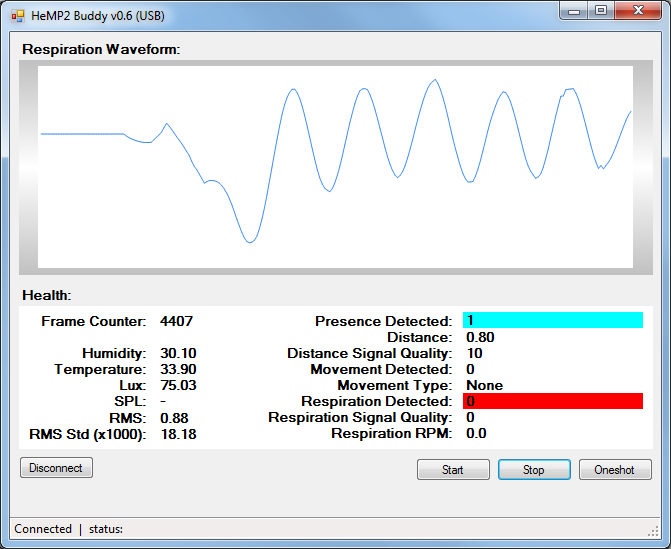
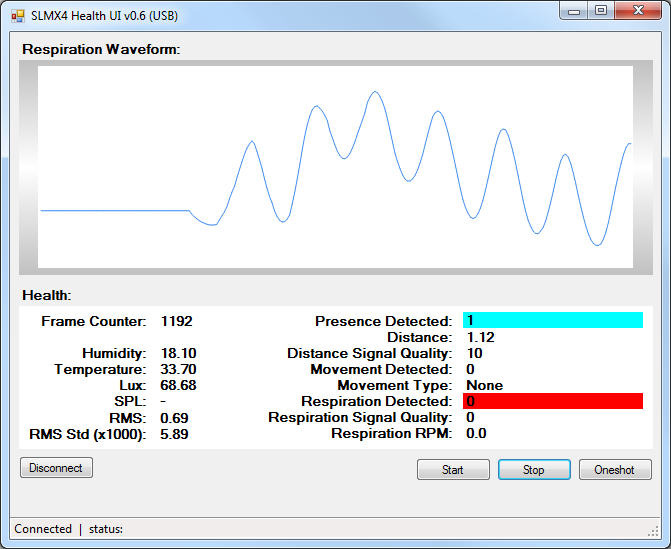
update branding

diff --git a/readme.md b/readme.md
@@ -1,18 +1,18 @@
 # SensorLogic NXP Xethru-X4 Ultra-wideband Radar Modules
-The centerpiece is the 2-pc **He**alth **M**odule **P**CB (HeMP), which is comprised of a baseboard and an elliptical patch antenna module (EPAM). The baseboard foundation is an i.MX RT1060 crossover MCU from NXP with a host of environmental sensors recording temperature, humidity, lux, and noise pressure. The hallmark sensor is the X4 UWB radar that can be used for myriad applications including occupancy, proximity, and respiration, out to 10 meters (RCS depending).
+The centerpiece is the 2-pc SLMX4, which is comprised of a baseboard and an elliptical patch antenna module (EPAM). The baseboard foundation is an i.MX RT1060 crossover MCU from NXP with a host of environmental sensors recording temperature, humidity, lux, and noise pressure. The hallmark sensor is the X4 UWB radar that can be used for myriad applications including occupancy, proximity, and respiration, out to 10 meters (RCS depending).
 
-## HeMP Health Firmware and App
-The _Health Firmware_ runs our proprietary algorithms to identify the presence of, and distance to, a human target. If conditions are right, the human respiration is calculated within +/-1 RPM, out to 5 meters. The current room temperature, humidity, and illuminance levels are also calculated and stored. The data is transmitted via USB or Wi-Fi and is displayed on a basic C# Windows Forms App, the [HeMP Buddy](https://github.com/SensorLogicInc/modules/blob/module-initial-release/docs/health_app.md), ultimately displaying the subject's breathing pattern in real-time.
+## SLMX4 Health Firmware and App
+The _Health Firmware_ runs our proprietary algorithms to identify the presence of, and distance to, a human target. If conditions are right, the human respiration is calculated within +/-1 RPM, out to 5 meters. The current room temperature, humidity, and illuminance levels are also calculated and stored. The data is transmitted via USB or Wi-Fi and is displayed on a basic C# Windows Forms App, the [SLMX4 Health UI](https://github.com/SensorLogicInc/modules/blob/module-initial-release/docs/health_app.md), ultimately displaying the subject's breathing pattern in real-time.
 
-## HeMP MATLAB Firmware and Connector
+## SLMX4 MATLAB Firmware and Connector
 The _MATLAB Firmware and Connector_ allows the user to use an efficient, high-level development environment, like MATLAB, to query the module for raw radar data for custom algorithm and application development. The data comes in two flavors, real RF data, effectively sampled at 23.328 GSps, or In-Phase/Quadrature (IQ) data that has been downconverted and decimated. Complete control of the radar is available by being able to query and set every radar register parameter. For example, changing parameters will affect the frame rate versus processing gain, depending on the application and required SNR.
 
 ## Folder Structure
 ```
 ├── docs
-│   ├── health_app.md                   # Documentation about the HeMP2 Health App
+│   ├── health_app.md                   # Documentation about the SLMX4 Health App
 │   ├── images/                         # Contains the images used in the markdown documents
-│   ├── insecure_fw_update.md           # Documentation about updating the HeMP2 Firmware
+│   ├── insecure_fw_update.md           # Documentation about updating the SLMX4 Firmware
 │   └── readme.md
 ├── matlab
 │   ├── images/                         # Contains the images used in the markdown documents
@@ -21,8 +21,8 @@ The _MATLAB Firmware and Connector_ allows the user to use an efficient, high-le
 │   ├── vcom_test.m                     # MATLAB Script to verify the ability to receive radar data
 │   └── vcom_xep_radar_connector.m      # MATLAB Class to connect the Module to MATLAB
 ├── protocol_buffers
-│   ├── hemp2_usb_vcom.options          # Health Firmware Protocol Buffer Options
-│   ├── hemp2_usb_vcom.proto            # Health Firmware Protocol Buffer .proto file
+│   ├── slmx4_usb_vcom.options          # Health Firmware Protocol Buffer Options
+│   ├── slmx4_usb_vcom.proto            # Health Firmware Protocol Buffer .proto file
 │   └── readme.md                       # Health Firmware Protocol Buffer ReadMe
 ├── usb_driver
 │   └── inf/                            # Contains the USB VCOM device driver for Windows 

diff --git a/docs/health_app.md b/docs/health_app.md
@@ -1,33 +1,33 @@
-# HeMP - Health App User Guide
-The following guide provides information about downloading and running the HeMP2 Health App. To update to the HeMP2 Health Firmware, please see the [Updating the HeMP Firmware Guide](https://github.com/SensorLogicInc/modules/blob/module-initial-release/docs/insecure_fw_update.md).
+# SLM-X4 - Health App User Guide
+The following guide provides information about downloading and running the SLM-X4 Health App. To update to the SLM-X4 Health Firmware, please see the [Updating the SLM-X4 Firmware Guide](https://github.com/SensorLogicInc/modules/blob/module-initial-release/docs/insecure_fw_update.md).
 
-## HeMP Health App - Download and Connect
-### Download the HeMP Health App
-1. Download the [HeMP Health App](https://modules-release.s3-us-west-2.amazonaws.com/health_windows_app/HeMP2_Buddy.zip)
-2. Extract the files from the `HeMP2_Buddy` Zip Folder.
-3. Move the `HeMP2_Buddy` Folder, if desired. This folder location will be know as [SLI-Modules].
-#### HeMP  Buddy Files
-    └── [SLI-Modules]\Hemp2_Buddy
-        ├── HeMP2_Buddy.exe
+## SLM-X4 Health App - Download and Connect
+### Download the SLM-X4 Health App
+1. Download the [SLM-X4 Health App](https://modules-release.s3-us-west-2.amazonaws.com/health_windows_app/SLM-X4_Buddy.zip)
+2. Extract the files from the `SLM-X4_Buddy` Zip Folder.
+3. Move the `SLM-X4_Buddy` Folder, if desired. This folder location will be know as [SLI-Modules].
+#### SLM-X4  Buddy Files
+    └── [SLI-Modules]\slmx4_health_ui_usb
+        ├── slmx4_health_ui_usb.exe
         ├── LibUsbDotNet.dll
         └── protobuf-net.dll
 
-### Power Up the HeMP and Verify the USB COM Port
-1. Connect a Micro-USB Cable to your PC and to the HeMP2 USB Port
+### Power Up the SLM-X4 and Verify the USB COM Port
+1. Connect a Micro-USB Cable to your PC and to the SLM-X4 USB Port
 2. Once powered, with the Red LED will blink at a steady 1 Hz rate, open the `Device Manager` by searching Windows
 3. Under the `Ports (COM & LPT)`, verify there is a new USB Device
     - For example `USB Serial Device (COM8`)
 
-### Launch the HeMP Health App and Connect the HeMP2
-1. Launch the HeMP2 Health App by running
-    - `[SLI-Modules]\Hemp2_Buddy\HeMP2_Buddy.exe`
+### Launch the SLM-X4 Health App and Connect the SLM-X4
+1. Launch the SLM-X4 Health App by running
+    - `[SLI-Modules]\SLM-X42_Buddy\slmx4_health_ui_usb.exe`
     - Windows will most likely launch a `Protect Your PC` Window, if so
         1. Click `More Info`
         2. Click `Run anyway` in the bottom left
 2. Click the `Connect Button` in the bottom left. The device will be connected when the `Connect` Button changes to `Disconnect`
 3. Once connected, click `One Shot` in the bottom right. If this is successful, the Frame Counter will update to `1`.
 
-## HeMP Health App - Usage
+## SLM-X4 Health App - Usage
 ### The One Shot
 The `Oneshot` button is really only useful for testing. The health monitoring software requires a number of radar signals in order to compute presence and respiration.
 

diff --git a/matlab/readme.md b/matlab/readme.md
@@ -9,10 +9,10 @@ supports a design where the user will request (poll) for data, and the particula
 server running will then produce a response message._
 
 ## Firmware Update
-The HeMP2 Firmware can be updated using the [Insecure Firmware Update Guide](https://github.com/SensorLogicInc/modules/blob/module-initial-release/docs/insecure_fw_update.md).
+The SLMX4 Firmware can be updated using the [Insecure Firmware Update Guide](https://github.com/SensorLogicInc/modules/blob/module-initial-release/docs/insecure_fw_update.md).
 
 ## vcom_xep_radar_connector
-The `vcom_xep_radar_connector` works on the HeMP hardware over USB; this NXP MIMXRT1062 micro-controller platform exposes USB as a virtual COM port. 
+The `vcom_xep_radar_connector` works on the SLMX4 hardware over USB; this NXP MIMXRT1062 micro-controller platform exposes USB as a virtual COM port. 
 
 On Windows, the device will show up in the 'Device Manager' under the 
 'Ports (COM & LPT)' category, with the label 'Virtual Com Port'. _The driver 

diff --git a/docs/readme.md b/docs/readme.md
@@ -1,3 +1,3 @@
-# HeMP Module Documentation
- - [HeMP - Health App](https://github.com/SensorLogicInc/modules/blob/module-initial-release/docs/health_app.md)
- - [HeMP - Updating Firmware](https://github.com/SensorLogicInc/modules/blob/module-initial-release/docs/insecure_fw_update.md)
+# SLM-X4 Module Documentation
+ - [SLM-X4 - Health App](https://github.com/SensorLogicInc/modules/blob/module-initial-release/docs/health_app.md)
+ - [SLM-X4 - Updating Firmware](https://github.com/SensorLogicInc/modules/blob/module-initial-release/docs/insecure_fw_update.md)
